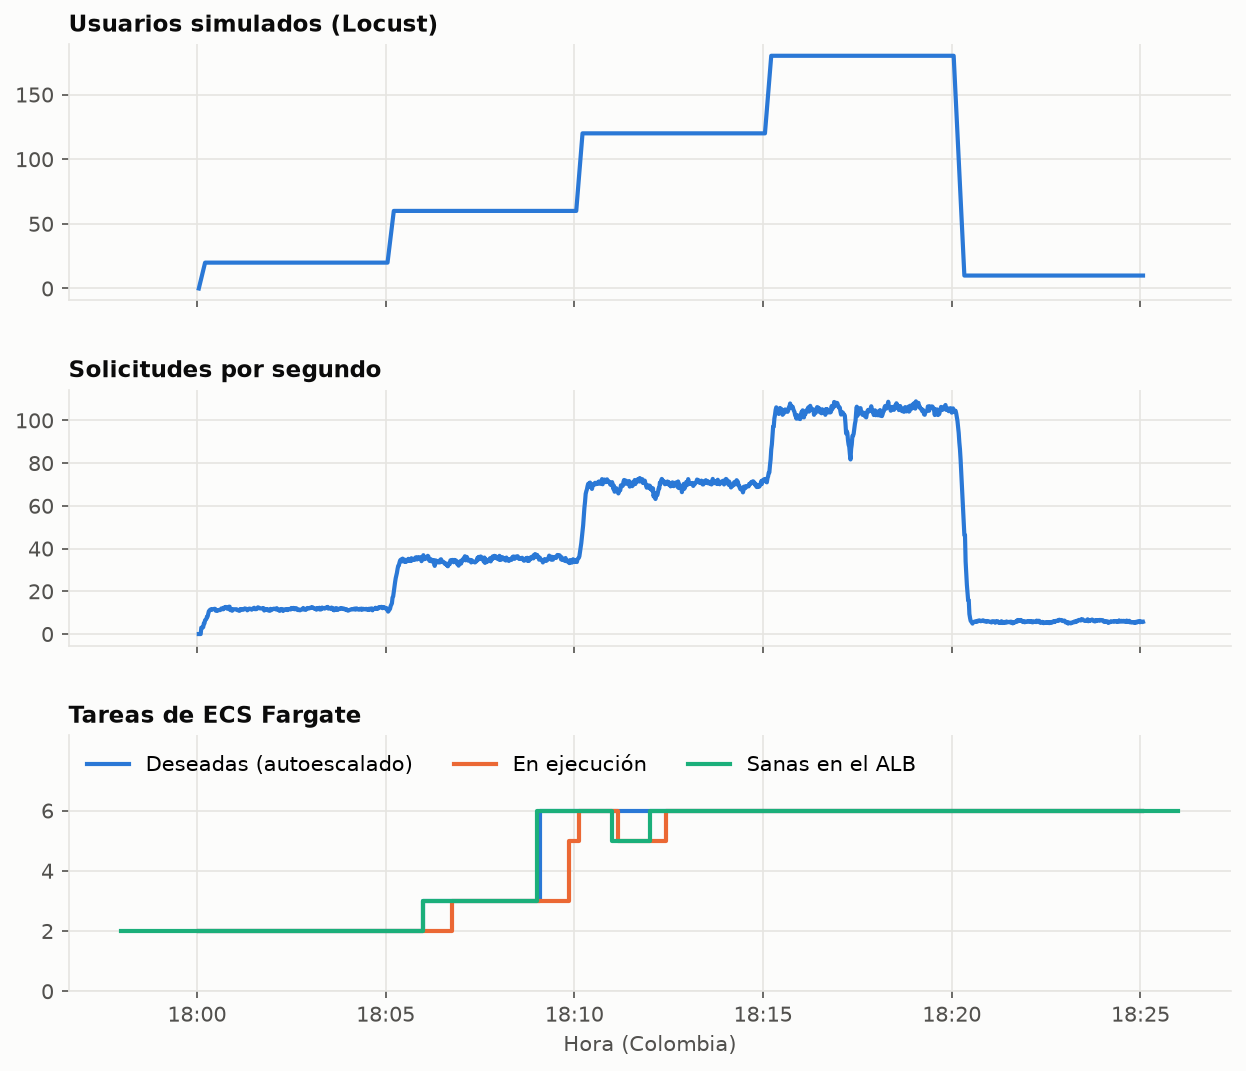
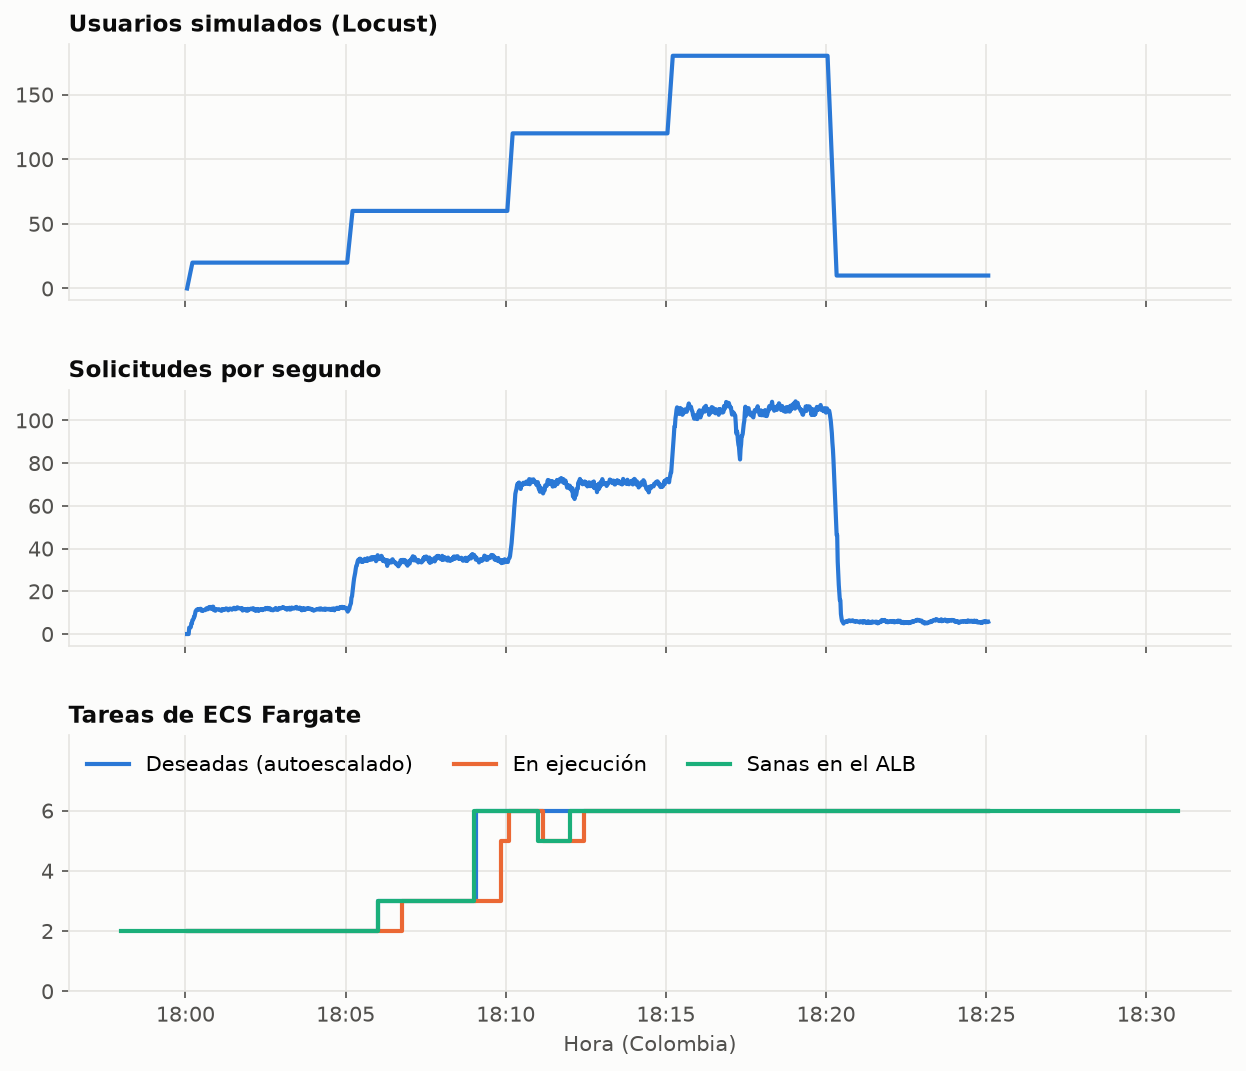
Datos exactos para el informe y gráfica de CPU frente a solicitudes por tarea

diff --git a/loadtest/analizar.py b/loadtest/analizar.py
@@ -165,6 +165,27 @@ def main(carpeta: Path):
     fig.savefig(carpeta / "3_servidor_latencia_y_cpu.png", bbox_inches="tight")
     plt.close(fig)
 
+    # 5. Las dos métricas del autoescalado frente a su objetivo: solicitudes por tarea (sí lo disparó) y CPU (no).
+    if "solicitudes" in cw and "cpu" in cw:
+        fig, (a, b) = plt.subplots(2, 1, figsize=(10, 6), sharex=True, gridspec_kw={"hspace": 0.4})
+        a.plot(cw.index, cw["solicitudes"], color=AZUL)
+        a.axhline(300, color=MUTED, linestyle="--", linewidth=1)
+        a.annotate("objetivo: 300 por minuto por tarea", (1, 300), xycoords=("axes fraction", "data"), xytext=(-4, 4),
+                   textcoords="offset points", ha="right", color=TEXTO_2, fontsize=8)
+        a.set_title("Solicitudes por minuto por tarea (ALBRequestCountPerTarget): disparó el escalado")
+        a.set_ylim(bottom=0)
+        b.plot(cw.index, cw["cpu"], color=AZUL)
+        b.axhline(60, color=MUTED, linestyle="--", linewidth=1)
+        b.annotate("objetivo: 60 %", (1, 60), xycoords=("axes fraction", "data"), xytext=(-4, 4),
+                   textcoords="offset points", ha="right", color=TEXTO_2, fontsize=8)
+        b.set_title("CPU promedio del servicio (%): nunca llegó a su objetivo")
+        b.set_ylim(0, 100)
+        for ax in (a, b):
+            formato_tiempo(ax)
+        b.set_xlabel("Hora (Colombia)")
+        fig.savefig(carpeta / "5_cpu_vs_solicitudes_por_tarea.png", bbox_inches="tight")
+        plt.close(fig)
+
     # 4. Distribución de solicitudes por tarea (balanceo least outstanding requests).
     # Se mide solo en los intervalos en que estaban activas todas las tareas del máximo: si se suma toda
     # la prueba, las tareas que vivieron más tiempo parecen "recibir más" y se esconde el balanceo.

diff --git a/docs/DATOS_PARA_INFORME.md b/docs/DATOS_PARA_INFORME.md
@@ -1,0 +1,72 @@
+# Datos exactos y correcciones para el informe
+
+Revisión del borrador `Informe_SIHO_Lite_Yonathan_Lopez_BORRADOR.pdf` (20 páginas) contra lo que realmente se construyó y midió.
+Todos los datos salen de `docs/resultados/escalones/`, `docs/bitacora.md`, `docs/evidencias/` y la consola de AWS.
+
+## 1. Correcciones de contenido (el borrador dice algo que no es exacto)
+
+| Página / sección | Dice | Lo correcto |
+|---|---|---|
+| Resumen y p. 13 (prueba de carga) | "En el pico de 180 usuarios el sistema atendió cerca de 4.200 solicitudes por minuto" | 4.200 por minuto fue con **120** usuarios. Con **180 usuarios fueron unas 6.240 solicitudes por minuto** (104 por segundo; el ALB registró 6.019 a 6.333 por minuto entre 18:16 y 18:19) |
+| Tabla 7, columna "Tareas" | 60 usuarios: "2 a 3"; 120 usuarios: "3 a 6" | El servicio pasó de 2 a 3 a las 18:06 **y a 6 a las 18:09, ya en el escalón de 60 usuarios**. Con 120 y 180 usuarios se mantuvo en 6 (el máximo) |
+| p. 13 "Con 60 usuarios la alarma de solicitudes por tarea superó el umbral de 300" | — | El umbral de 300 por tarea **ya se superaba con 20 usuarios** (unas 350 por minuto por tarea con 2 tareas). La alarma exige 3 minutos seguidos por encima y CloudWatch publica con 1 o 2 minutos de retraso, por eso se disparó a las **18:05:59**, justo al comenzar el escalón de 60 usuarios; el servicio pasó a 3 tareas a las 18:06 y a 6 a las 18:09 |
+| Tabla 7, fila 180 usuarios | "~70" solicitudes por segundo | **104** solicitudes por segundo (70 corresponde a 120 usuarios) |
+| p. 13 "Cada usuario virtual obtiene su token de Cognito" | — | Locust inicia sesión **una sola vez** al comenzar con un usuario de prueba (usuario, contraseña y código TOTP) y todos los usuarios virtuales comparten ese token |
+| p. 10 "Faker en configuración colombiana" | — | Faker para JavaScript **no trae el locale es_CO**: se usó el locale `es` más listas colombianas propias (municipios del área del Hospital Regional del Fonce, EPS y tipos de documento CC, TI, RC, CE y PA según la edad) |
+| p. 10 "Terraform organizado por módulos de red, seguridad…" | — | Un solo directorio `infra/` con **archivos por dominio** (`red.tf`, `datos.tf`, `computo.tf`, `borde.tf`, `identidad.tf`, `observabilidad.tf`), sin módulos, por simplicidad |
+| Tabla 3, autenticación multifactor | "para las cuentas de administración de AWS" | MFA activa en la **cuenta raíz**. Se trabajó con credenciales temporales de la raíz obtenidas con `aws login` (sin llaves de larga duración); queda como decisión consciente del prototipo y en producción se usaría IAM Identity Center |
+| Tabla 3, trazabilidad | "CloudTrail" | **Historial de eventos de CloudTrail** (90 días, gratis); no se creó un *trail* para no pagar almacenamiento |
+| p. 12, pruebas funcionales | "inicio de sesión con MFA, … agendamiento de una cita, apertura de una admisión…" | En la nube, el recorrido automático con Playwright hizo: inicio de sesión con token MFA, búsqueda, ficha, **subida y descarga de un PDF**, agenda, admisiones, reporte y auditoría. Crear pacientes, citas (con validación de cruce) y admisiones se probó con las **13 pruebas de integración** y en local; en la nube la prueba de carga **creó 5.482 pacientes** sin errores |
+| p. 12, pruebas automatizadas | "[número de pruebas y cobertura]" | **13 pruebas de integración** (Vitest + supertest contra PostgreSQL real), todas en verde. **No se midió cobertura**; mejor no reportar un porcentaje |
+| Tabla 5, "El dominio propio no estaba disponible" | — | Ese dominio era de otro proyecto, no de SIHO Lite. El reto real es: **sin dominio propio no hay certificado para el ALB**, así que el tramo CloudFront → ALB va por HTTP dentro de la red de AWS. Se mitigó con la cabecera secreta `X-Origin-Verify` y un grupo de seguridad que solo admite las IP de origen de CloudFront (el acceso directo al ALB no responde) |
+| p. 15, resiliencia | "en menos de un minuto" | Tarea detenida a las 18:11:01, reemplazo iniciado a las 18:11:28, **registrado sano a las 18:12:06 (unos 65 s)** y servicio estable a las 18:12:15. Locust registró **0 fallas** en toda la prueba, incluido ese minuto |
+| p. 14–15, hallazgo de la CPU | "pasa la mayor parte del tiempo esperando respuestas de la base de datos" | Correcto como explicación, pero se puede precisar: cada tarea atendía unas 17 solicitudes por segundo en el pico, carga liviana para Node.js, que no bloquea mientras espera a PostgreSQL. La CPU máxima fue **24 %** y la de RDS ~29 %. Además, **el objetivo de 300 solicitudes por minuto por tarea resultó conservador**: con 6 tareas la CPU no pasó del 24 %; en producción se calibraría más alto para gastar menos (el diseño decía "valor a calibrar con las pruebas") |
+| p. 17 | Página en blanco | Sobra; quitar el salto de página doble antes de las referencias |
+| Referencias, Rajammal | Sin volumen ni número de artículo | Rajammal, K., & Chinnadurai, M. (2025). Dynamic load balancing in cloud computing using predictive graph networks and adaptive neural scheduling. *Scientific Reports, 15*, Artículo 22181. https://doi.org/10.1038/s41598-025-97494-2 |
+| Conclusiones, trabajo futuro | "[Ajustar si se implementó alguno]" | **Ninguno se implementó** (ni GitHub Actions ni escalador predictivo; el despliegue se hizo con `scripts/deploy.sh`) |
+
+## 2. Datos que faltaban
+
+| Dato | Valor |
+|---|---|
+| URL del repositorio | https://github.com/jotamedina14/siho-lite (**privado**: hay que darle acceso al docente o hacerlo público al entregar) |
+| URL de la app | https://d2b8b221bu4poi.cloudfront.net (deja de existir al hacer `terraform destroy`; poner "desplegada del 16 de noviembre de 2026 hasta su destrucción") |
+| Recursos creados por Terraform | **85** (2 de ECR primero y 83 después) |
+| Datos sintéticos (seed) | **5.000 pacientes, 30 profesionales, 20.000 citas y 3.000 admisiones** |
+| Pruebas automáticas | 13 de integración, todas en verde |
+| Vulnerabilidad | **CVE-2026-4738**, crítica, paquete **`zlib` 1.3.2-r1** de la imagen base `node:22-alpine` (Alpine 3.24); corregida con **`zlib` 1.4-r0** (`apk upgrade` en el Dockerfile). Resultado después: *pendiente, se agrega al redesplegar* |
+| Acción programada | **6:15 a. m.** hora de Colombia: mínimo 3 tareas (máximo 6); **10:30 a. m.**: vuelve a mínimo 2 (máximo 6) |
+| Retiro gradual de tareas | 30 s (deregistration delay); health check `/health` cada 10 s |
+| Tiempo en volver a 2 tareas | *pendiente* |
+| Costo real | *pendiente* (Cost Explorer tarda hasta 24 h en mostrar el gasto; se reporta al día siguiente) |
+
+## 3. Tabla 7 completa (prueba por escalones, 16 nov 2026, 18:00 a 18:25 hora de Colombia)
+
+Promedios de cada escalón sin su primer minuto (rampa). La latencia por escalón es la del **ALB** (servidor), porque Locust guarda percentiles acumulados y no por escalón.
+
+| Escalón | Usuarios | Solicitudes por segundo | Solicitudes por minuto | p95 en el ALB (prom / máx) | CPU servicio (prom / máx) | Errores | Tareas |
+|---|---|---|---|---|---|---|---|
+| 1 | 20 | 11,7 | 705 | 16 / 17 ms | 9,7 / 10,4 % | 0 | 2 |
+| 2 | 60 | 34,9 | 2.094 | 22 / 37 ms | 18,3 / 22,2 % | 0 | 2 → 3 (18:06) → 6 (18:09) |
+| 3 | 120 | 70,0 | 4.199 | 27 / 42 ms | 17,9 / 19,5 % | 0 | 6 (5 por 1 min en la prueba de resiliencia) |
+| 4 | 180 | 104,0 | 6.240 | 36 / 44 ms | 23,6 / 24,0 % | 0 | 6 |
+
+Totales de la prueba (cliente, incluye el viaje por internet Colombia → Virginia):
+- **68.413 solicitudes, 0 fallidas (0,00 %)**, 0 errores 5xx en el servidor.
+- p50 **93 ms**, p95 **140 ms**, p99 **400 ms** (criterios: p95 < 1 s en carga base y < 2 s en el pico, errores < 1 %: **se cumplen**).
+- La diferencia entre el p95 del servidor (16 a 44 ms) y el del usuario (140 ms) es casi toda la latencia de internet.
+- **Balanceo:** con las 6 tareas activas (18:12 a 18:25, 46.531 solicitudes) cada tarea atendió entre el 16,4 % y el 16,7 %: **coeficiente de variación de 0,7 %** (reparto casi perfecto del algoritmo de menor número de solicitudes pendientes).
+- Pico de solicitudes por tarea: 1.055 por minuto, frente al objetivo de 300; por eso el servicio llegó al máximo de 6 ya con 60 usuarios.
+
+## 4. Figuras (en `docs/resultados/escalones/`)
+
+| Figura del informe | Archivo |
+|---|---|
+| Figura 1. Arquitectura | `docs/arquitectura.png` |
+| Figura 2. Solicitudes por segundo y latencia | `1_carga_y_escalado.png` (usuarios, solicitudes/s y tareas) y `2_latencias_cliente.png` |
+| Figura 3. Tareas frente a la carga (ciclo completo) | `6_ciclo_completo_tareas.png` (*pendiente*, cuando el servicio vuelva a 2) |
+| Figura 4. CPU y solicitudes por tarea | `5_cpu_vs_solicitudes_por_tarea.png` |
+| Figura 5 sugerida. Reparto entre tareas | `4_distribucion_por_tarea.png`: es la mejor evidencia del balanceo |
+| Complementaria | `3_servidor_latencia_y_cpu.png` (latencia del ALB y CPU) |
+
+Datos crudos: `locust_stats.csv`, `locust_stats_history.csv`, `cloudwatch_metricas.csv`, `ecs_tareas.csv`, `distribucion_tareas.csv`; reporte HTML de Locust: `locust.html`; resumen: `resumen.md`.
